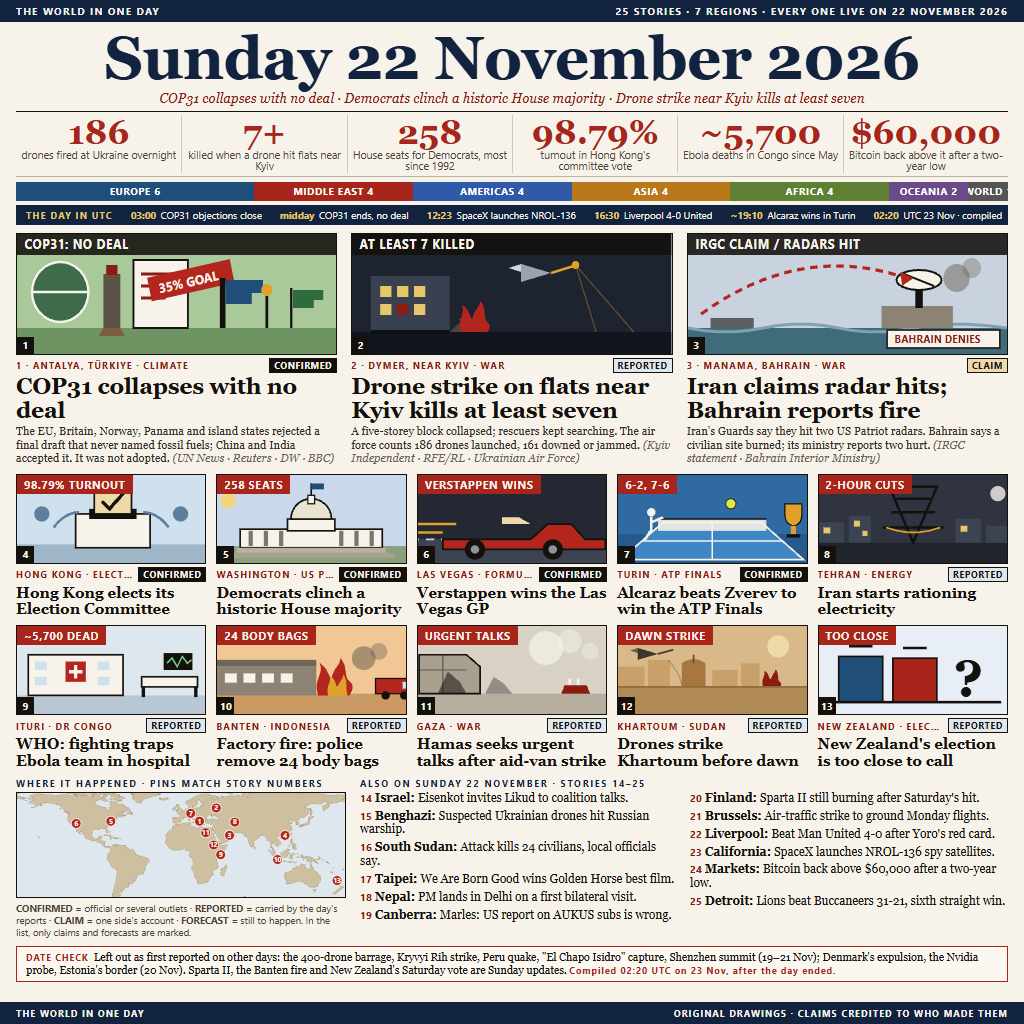
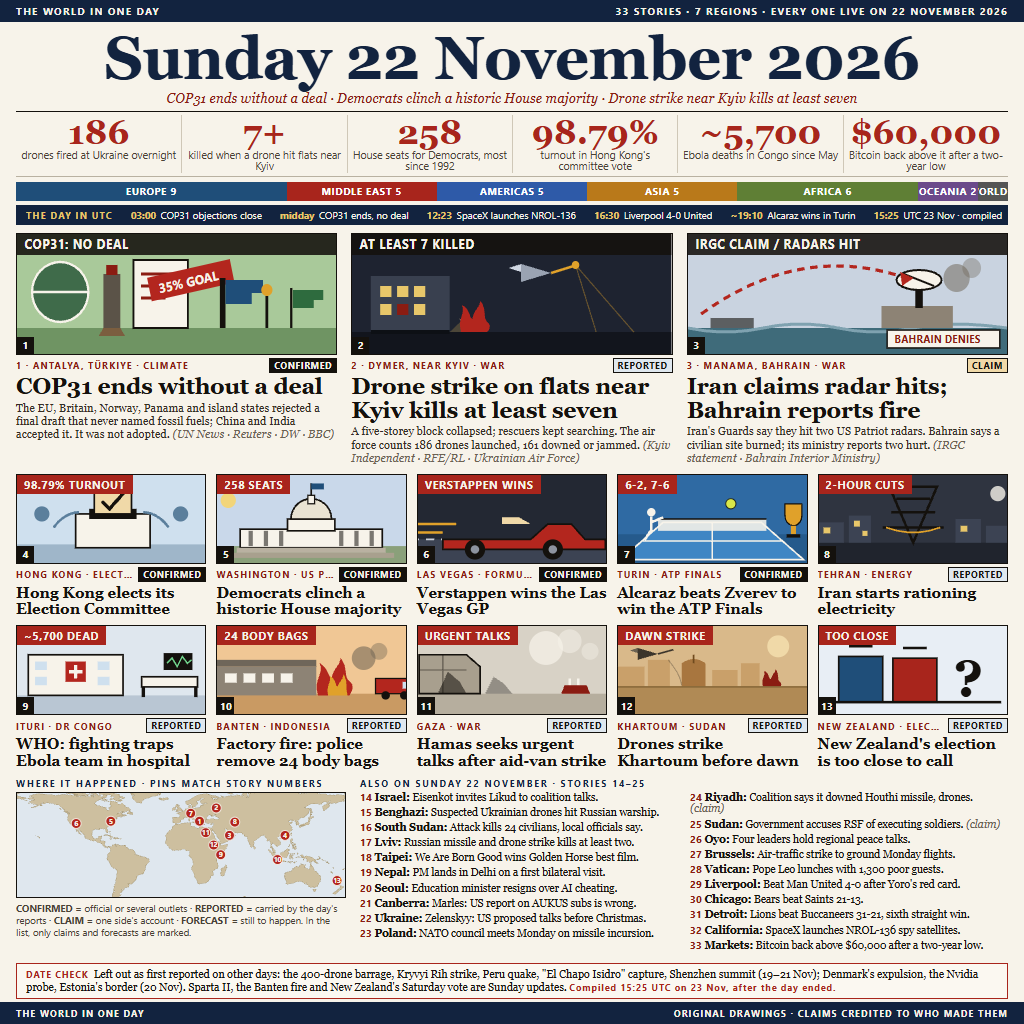
entry: 33 stories, COP31 wording matches the outcome, Sparta II moved to the left-out list

diff --git a/README.md b/README.md
@@ -1,8 +1,8 @@
 # 22 November 2026, in one image
 
 A make.fun entry for **Sum up 22 November's world news in one image**: a 1024 by 1024 front page for
-Sunday 22 November 2026 — three illustrated leads, ten picture cards, twelve one-line briefs, a pinned
-map and a date check, 25 stories in all, each with a certainty tag (confirmed, reported, claim or
+Sunday 22 November 2026 — three illustrated leads, ten picture cards, twenty one-line briefs, a pinned
+map and a date check, 33 stories in all, each with a certainty tag (confirmed, reported, claim or
 forecast). The pictures are original drawings; the map is drawn from Natural Earth coastlines. The
 page is drawn once and copied to `/output/entry.png` by a program that refuses anything the gate
 would reject.
